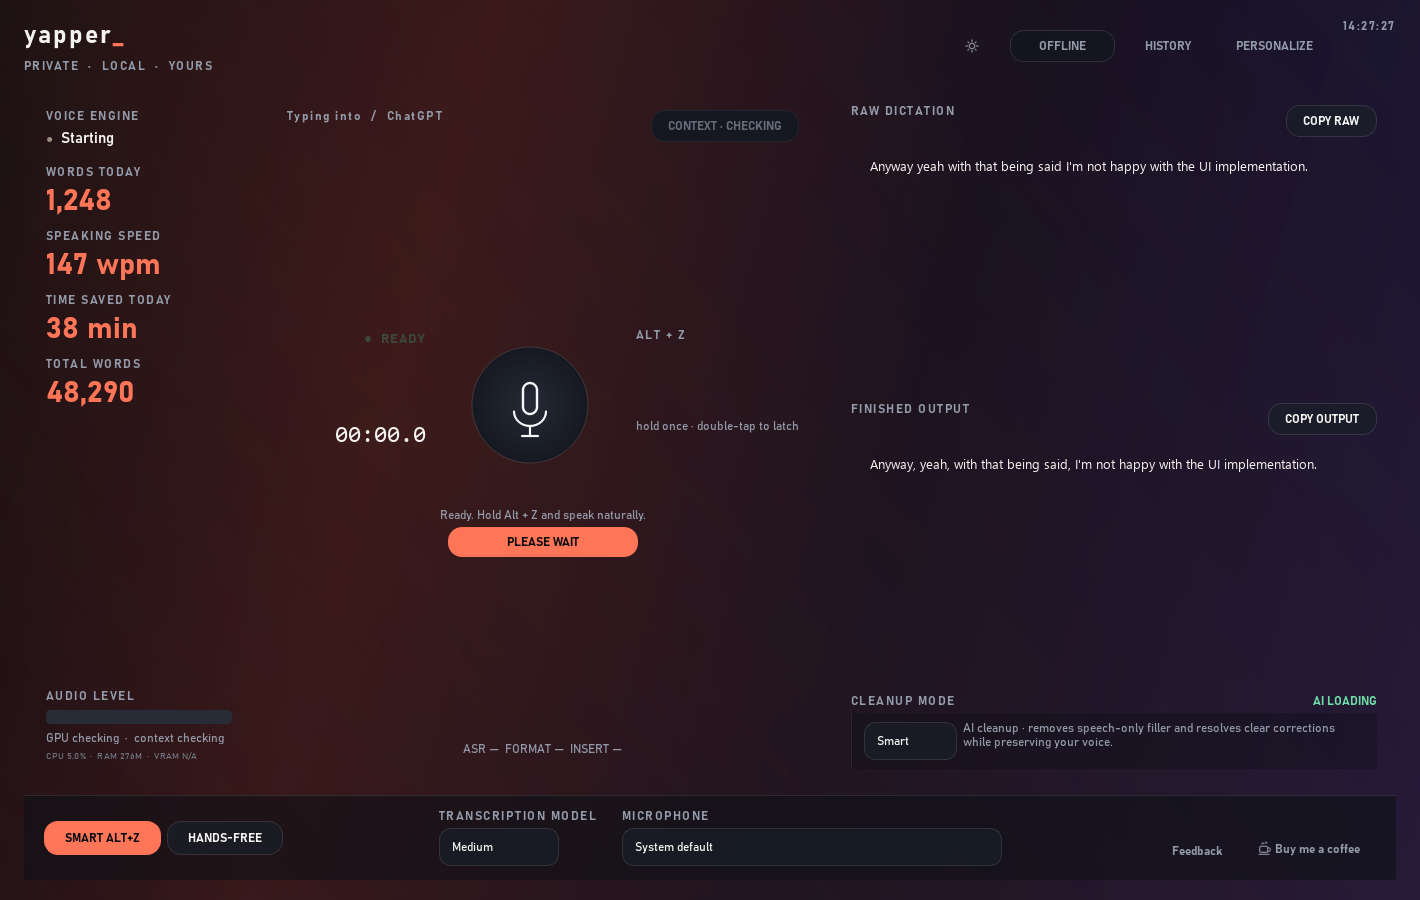
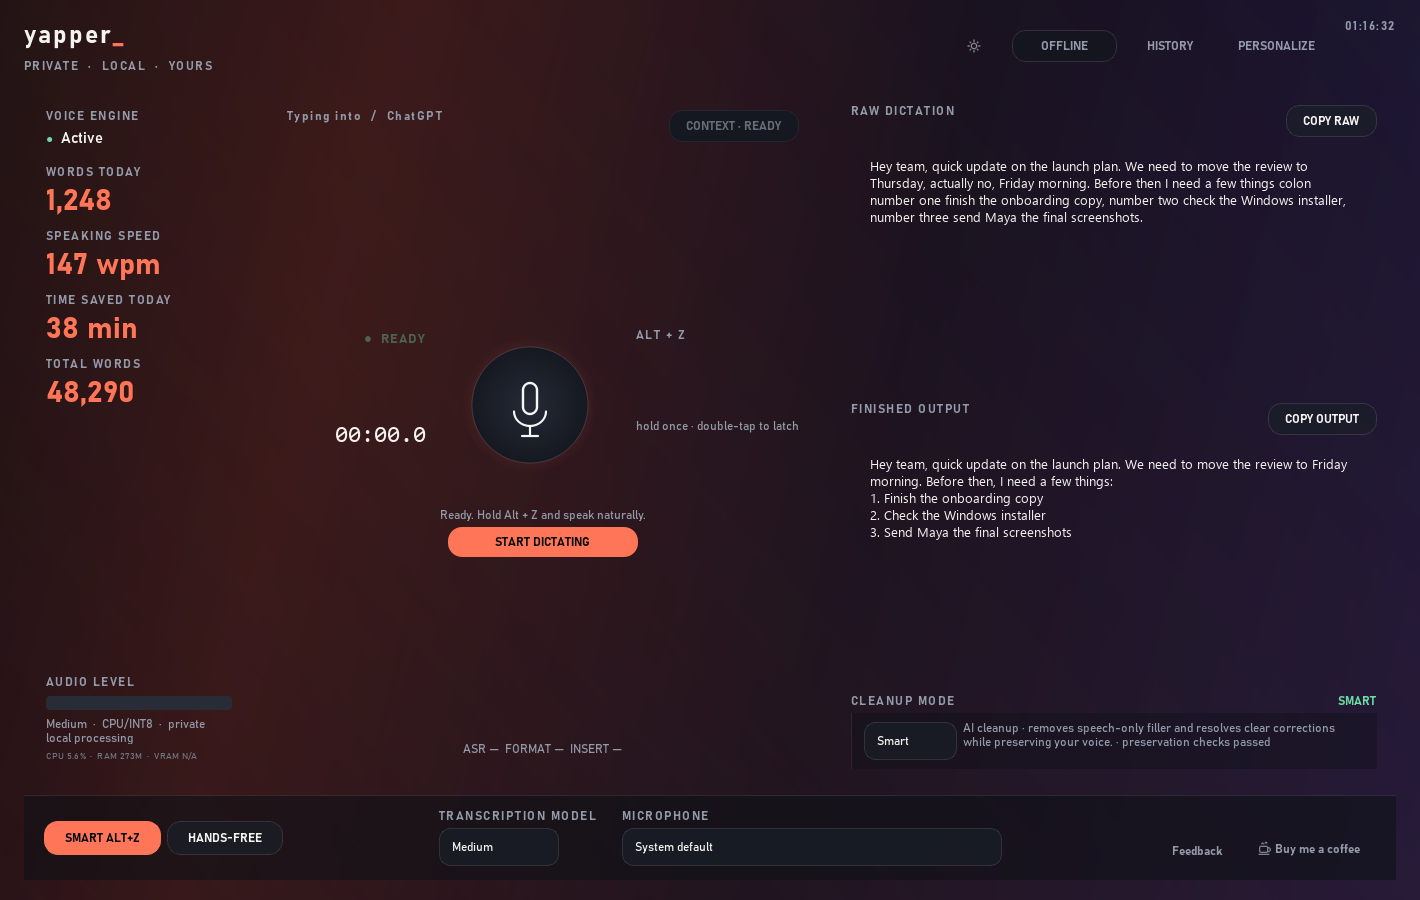
docs: refresh dashboard screenshot

diff --git a/tools/render_ui.py b/tools/render_ui.py
@@ -38,10 +38,17 @@ def render() -> list[Path]:
     window.target_label.setText("Typing into  /  ChatGPT")
     window.hero_status.setText("Ready. Hold Alt + Z and speak naturally.")
     window.raw_card.editor.setPlainText(
-        "Anyway yeah with that being said I'm not happy with the UI implementation."
+        "Hey team, quick update on the launch plan. We need to move the review "
+        "to Thursday, actually no, Friday morning. Before then I need a few "
+        "things colon number one finish the onboarding copy, number two check "
+        "the Windows installer, number three send Maya the final screenshots."
     )
     window.final_card.editor.setPlainText(
-        "Anyway, yeah, with that being said, I'm not happy with the UI implementation."
+        "Hey team, quick update on the launch plan. We need to move the review "
+        "to Friday morning. Before then, I need a few things:\n"
+        "1. Finish the onboarding copy\n"
+        "2. Check the Windows installer\n"
+        "3. Send Maya the final screenshots"
     )
     window._update_stats(
         {"words_today": 1248, "speaking_wpm": 147, "time_saved_minutes": 38, "total_words": 48290}
@@ -50,6 +57,25 @@ def render() -> list[Path]:
 
     target = PROJECT_ROOT / "docs" / "screenshots"
     target.mkdir(parents=True, exist_ok=True)
+    if "--github" in sys.argv:
+        window._apply_theme("dark", persist=False)
+        window._show_main_dashboard()
+        app.processEvents()
+        window._apply_state("ready")
+        window.health_dot.setStyleSheet(f"color: {window.theme_colors['green']};")
+        window.health_label.setText("Active")
+        window.system_label.setText("Medium  ·  CPU/INT8  ·  private local processing")
+        window.context_badge.setText("CONTEXT · READY")
+        window.formatter_state.setText("SMART")
+        window.cleanup_description.setText(
+            f"{window.cleanup_tooltips['smart']} · preservation checks passed"
+        )
+        app.processEvents()
+        path = target / "v39-dashboard-dark.png"
+        window.grab().save(str(path))
+        window.hide()
+        return [path]
+
     renders = []
     for name, action in (
         ("redesign-dictate.png", window._show_main_dashboard),
